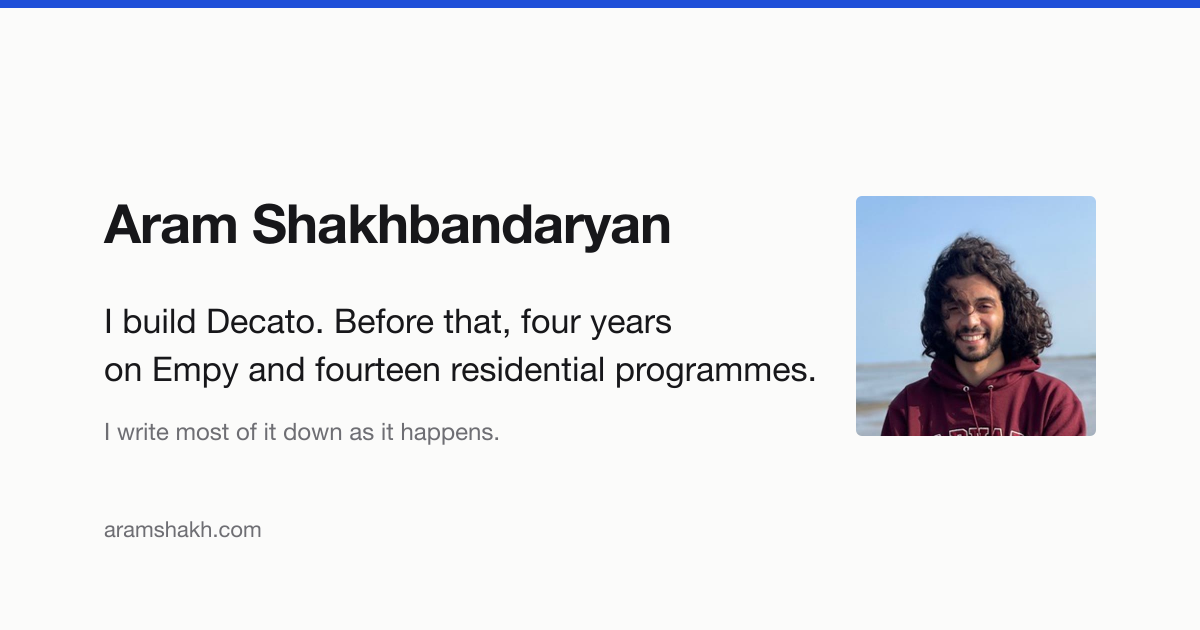
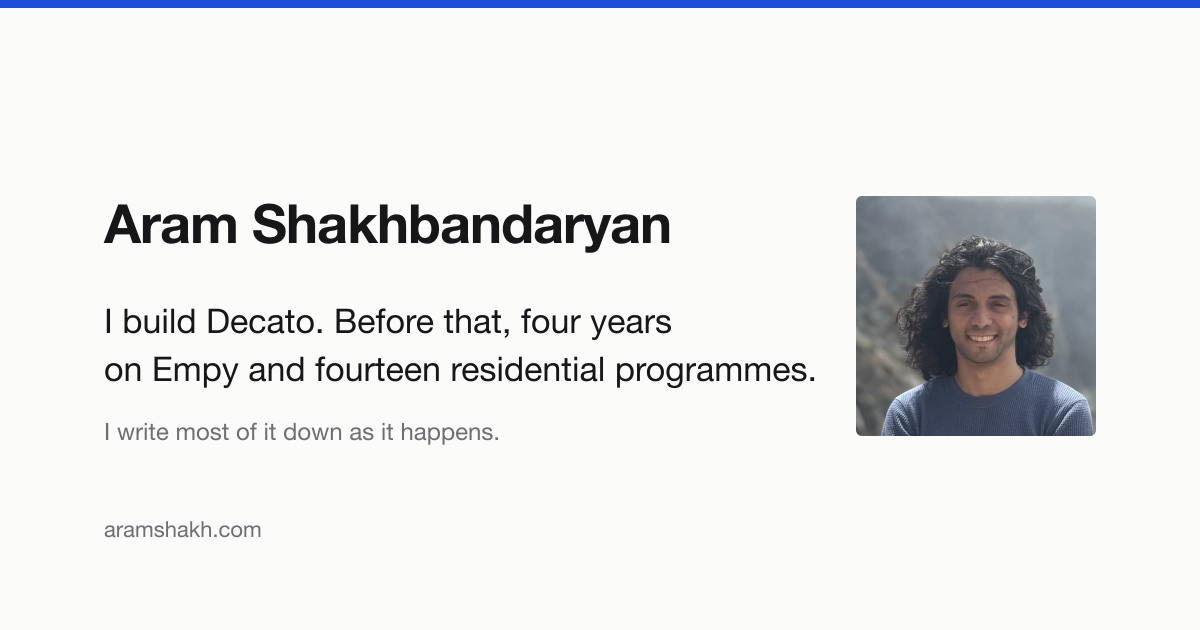
Replace every portrait with the blue-top photograph
Plain blue top, misty cliffs out of focus, soft daylight, direct gaze:
the first frame that passes every headshot criterion. Press kit gets a
2000-square head-and-shoulders crop and a 4:5 for articles; the
"higher resolution on the way" promise comes down. Homepage keeps its
torso framing from the same frame. Share card follows.

Changed region(s): [[0.7092, 0.3016, 0.925, 0.6937]]

diff --git a/press/index.html b/press/index.html
@@ -53,7 +53,7 @@
     </li>
     <li>
       <span class="role"><a href="/assets/aram.jpg" download>Headshot</a></span>
-      <span class="meta">JPEG, 640 by 640. A higher resolution version is on the way.</span>
+      <span class="meta">JPEG, 2000 by 2000, head and shoulders. Also as <a href="/assets/aram-headshot-4x5.jpg" download>4:5</a> for articles. Credit not required.</span>
     </li>
   </ul>
 
